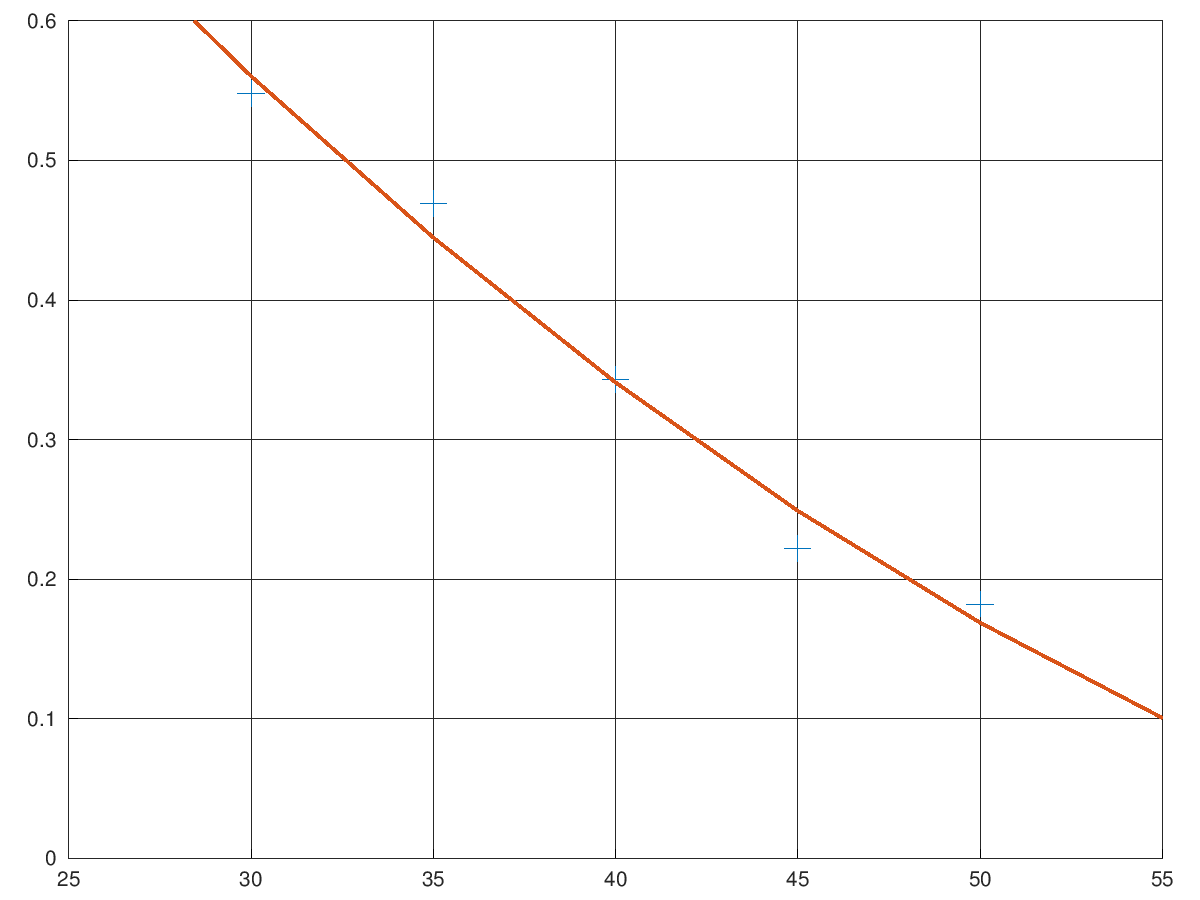
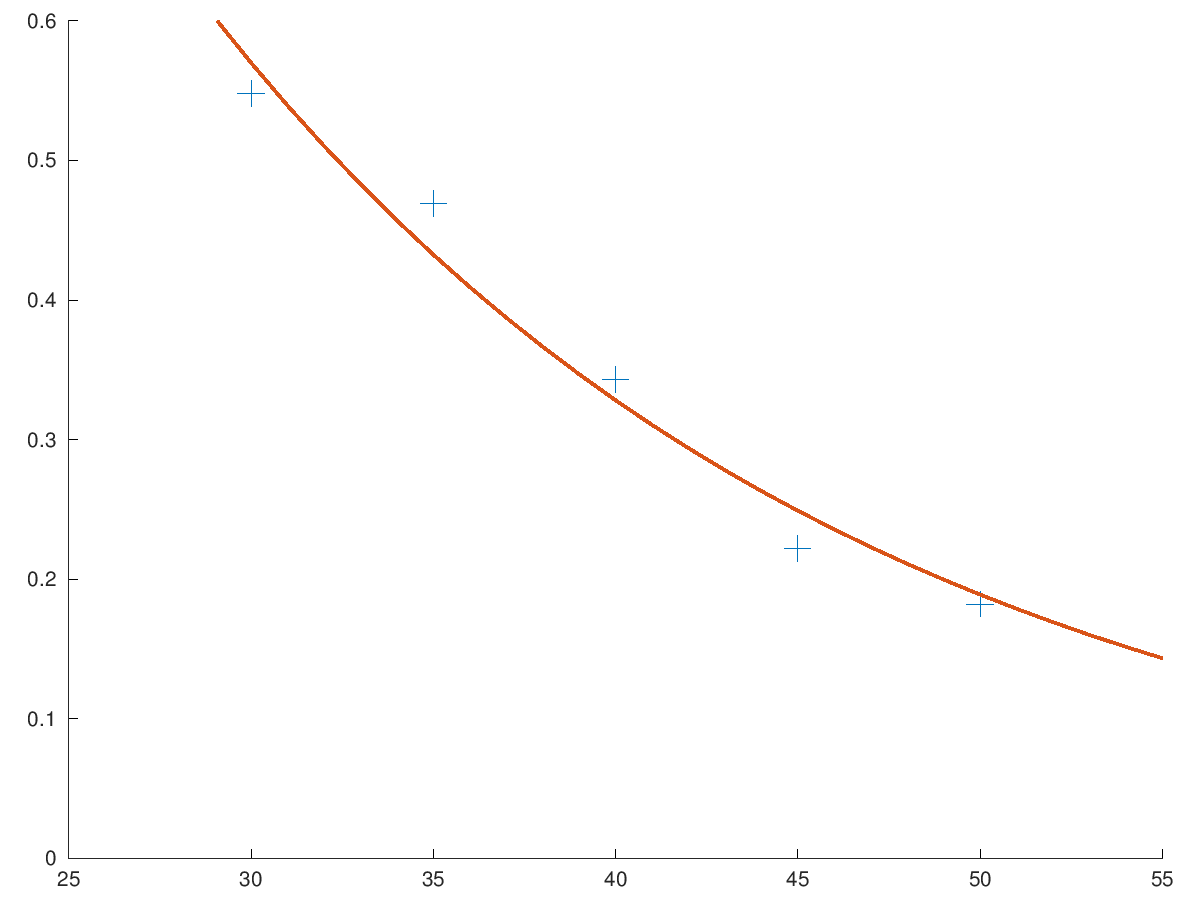
改用非线性拟合

diff --git a/period/freshman/物理实验/变温粘滞系数的测定/figure.m b/period/freshman/物理实验/变温粘滞系数的测定/figure.m
@@ -3,15 +3,20 @@
 nw = [.548, .469, .343, .222, .182];
 t  = [  30,   35,   40,   45,   50];
 
-P = polyfit(t, nw, 2);
+function rslt = fun(var, data)
+  rslt = var(1) * exp(-var(2) * data);
+endfunction
+
+var0 = [0 0];
+P = lsqcurvefit(@fun, var0, t, nw);
 
 graphics_toolkit("gnuplot");
 figure();
 
 hold on;
-grid on;
+grid off;
 axis([25, 55, 0, 0.6]);
 plot(t, nw, '+', 'MarkerSize', 12);
-plot([25 t 55], polyval(P, [25 t 55]), 'LineWidth', 5);
+plot([25:1:55], fun(P, [25:1:55]), 'LineWidth', 5);
 print('figure.png', '-dpng');
 hold off;
